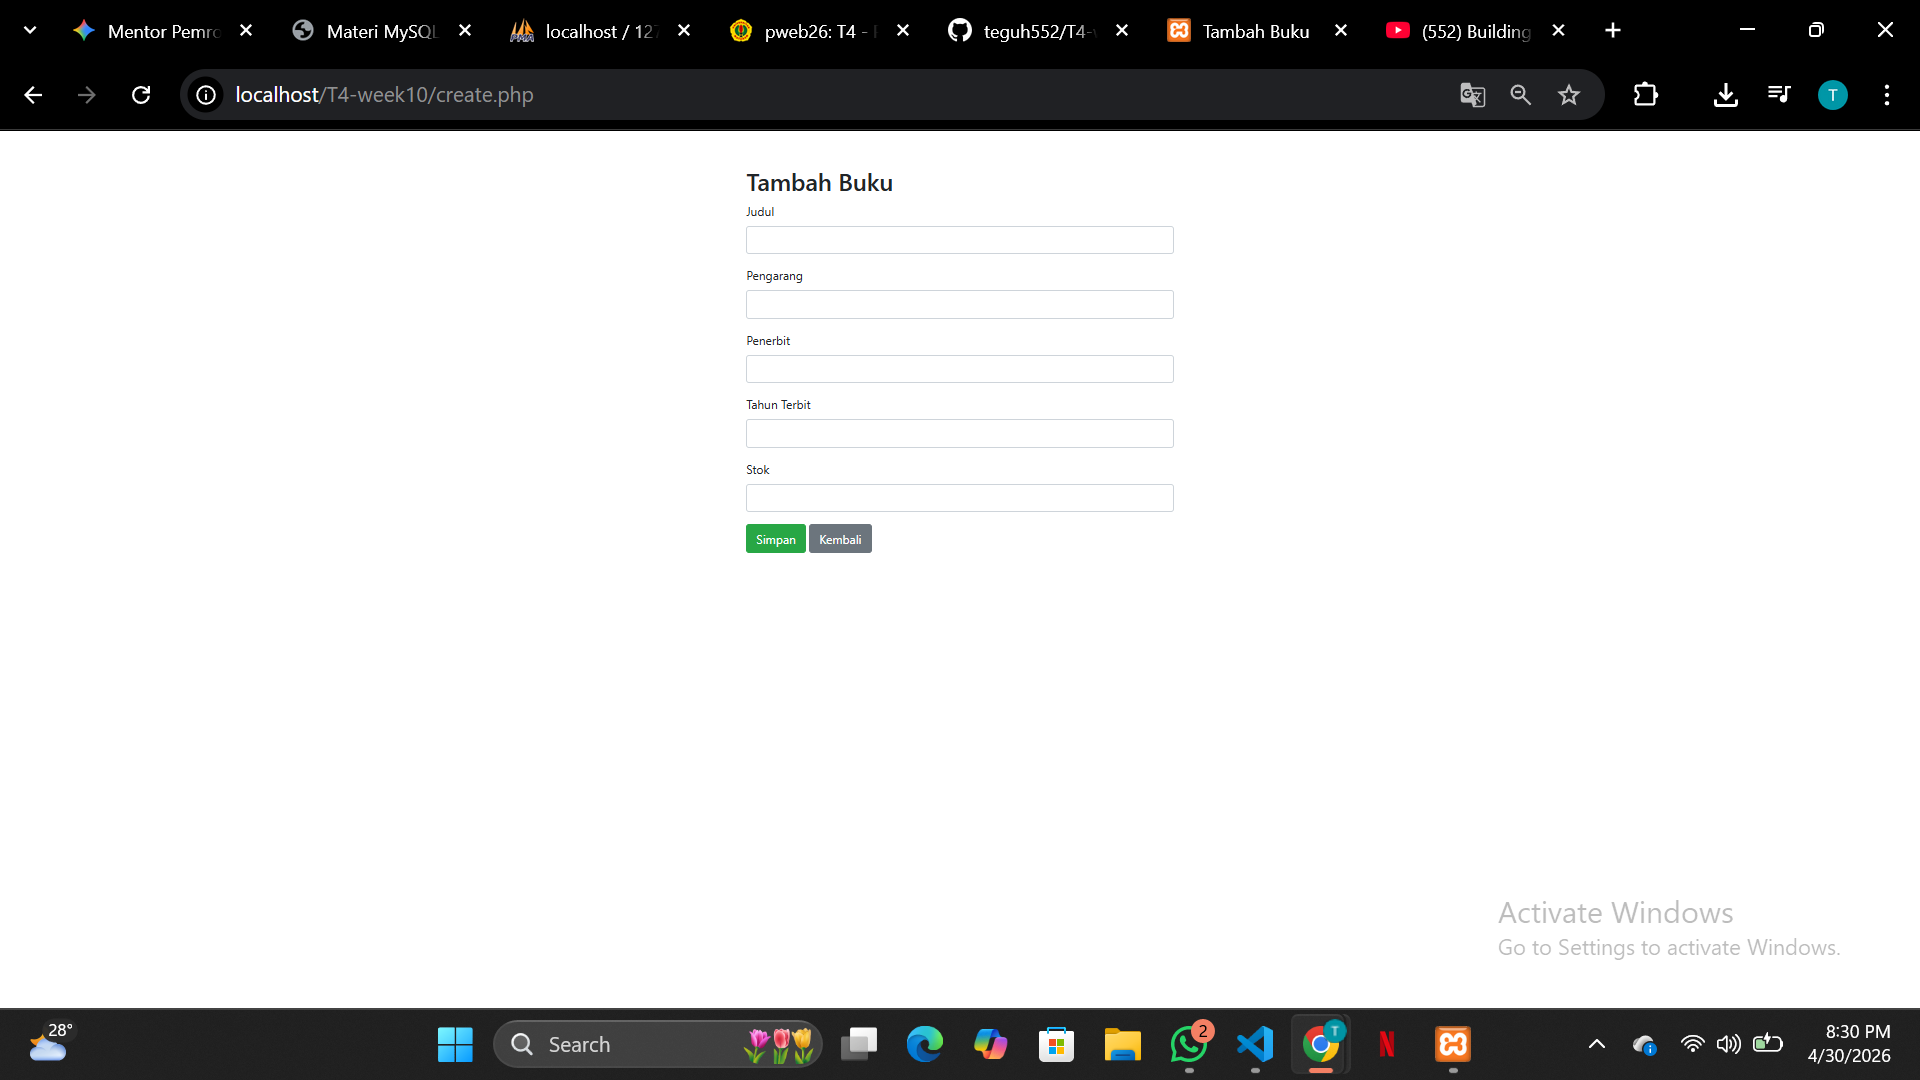
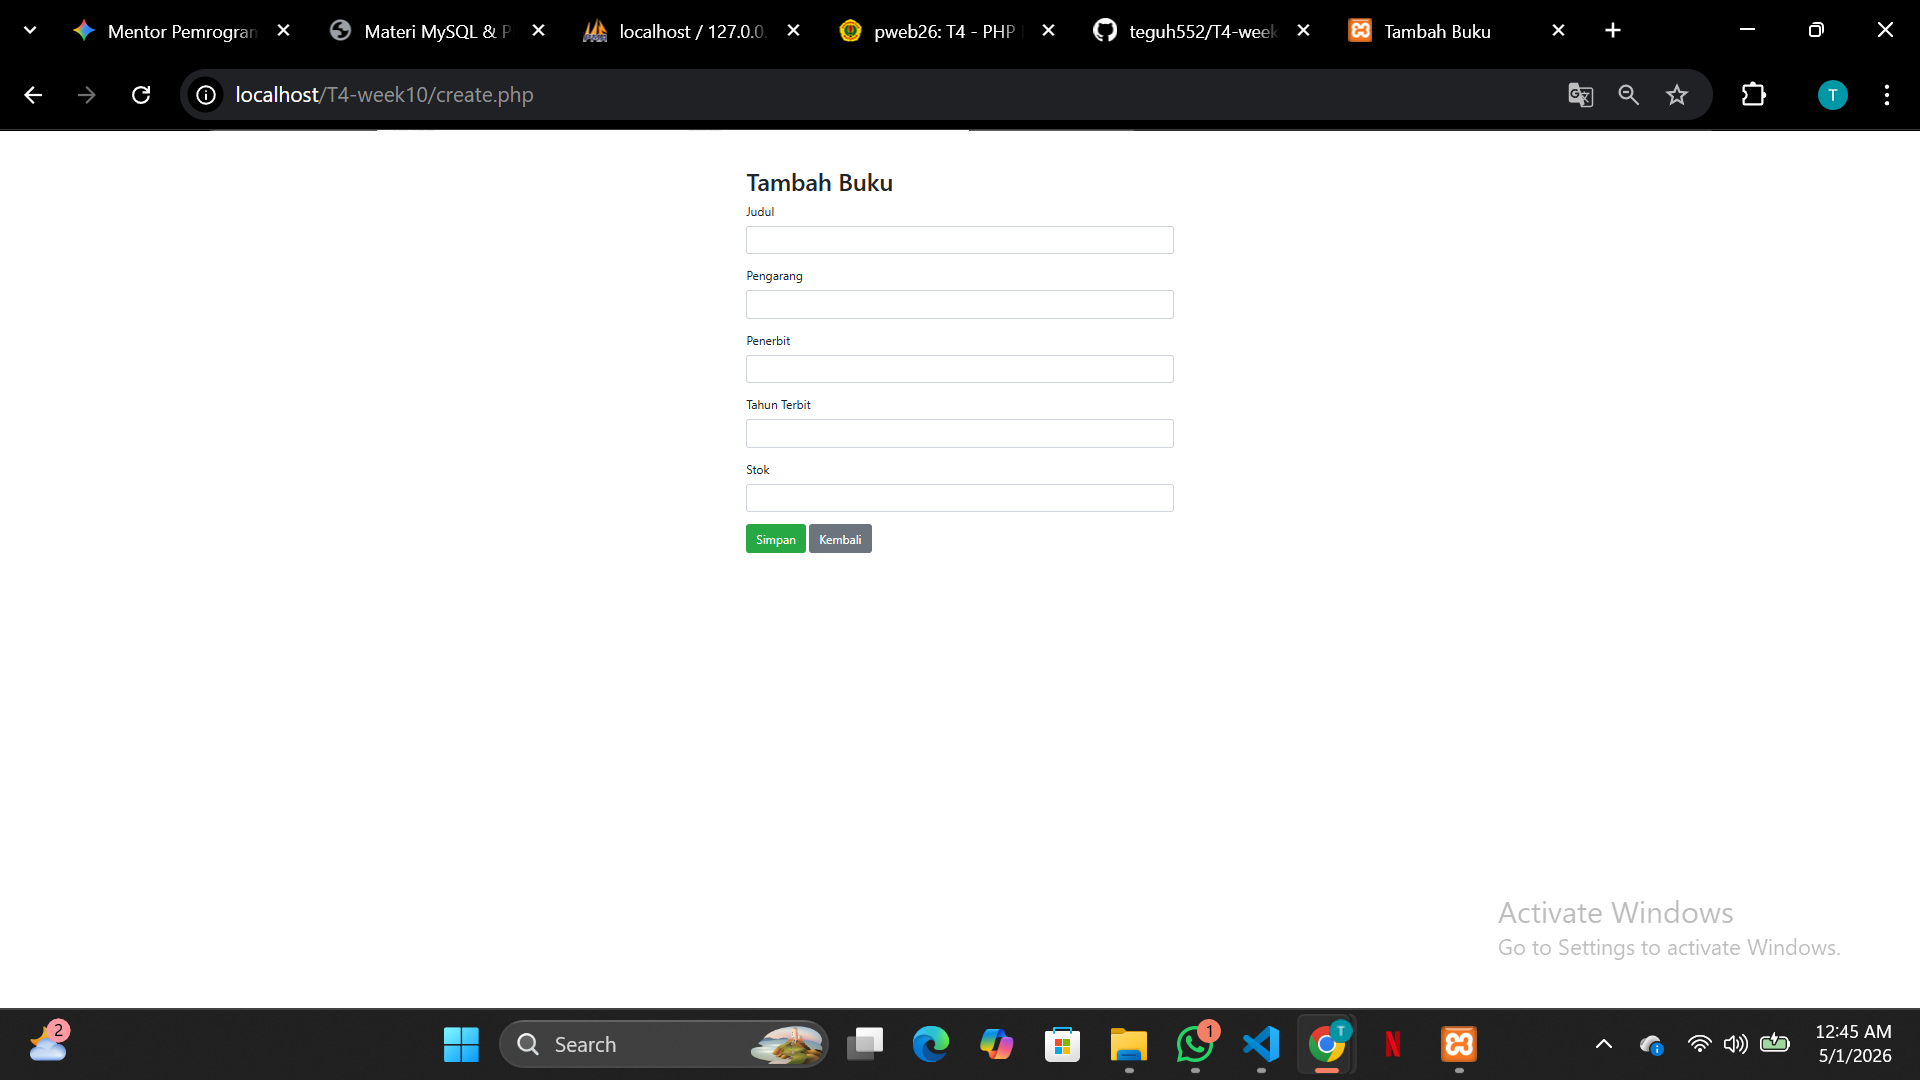
final commit

diff --git a/README.md b/README.md
@@ -18,13 +18,16 @@ Aplikasi CRUD (Create, Read, Update, Delete) menggunakan PHP, MySQL, dan Bootstr
 ## Screenshot
 
 ### Daftar Data
-![Index](screenshot/edit.png)
+![Index](screenshot/index.png)
 
 ### Tambah Data
 ![Index](screenshot/create.png)
 
 ### Edit Data
 ![Index](screenshot/edit.png)
+
+### Hapus Data
+![Index](screenshot/delete.png)
 
 ### Struktur Database (phpMyAdmin)
 ![Database](screenshot/database.png)